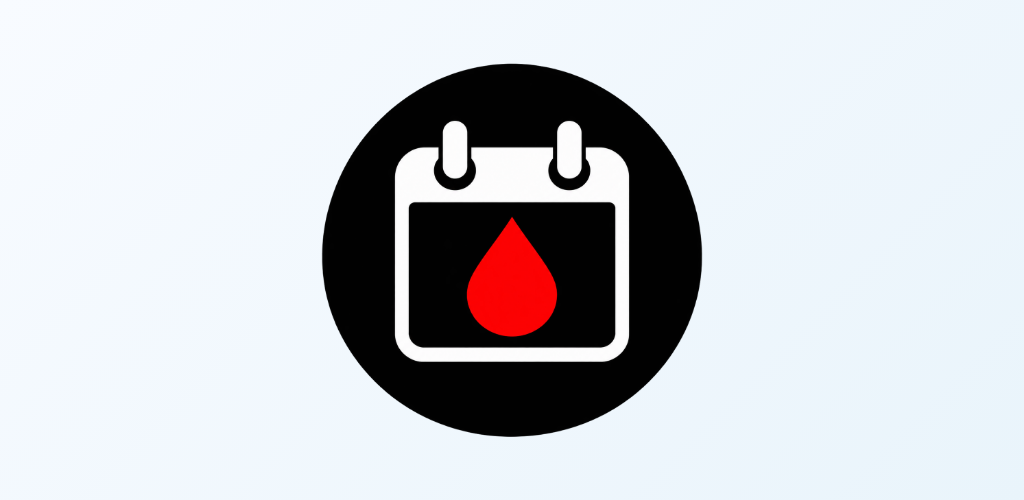
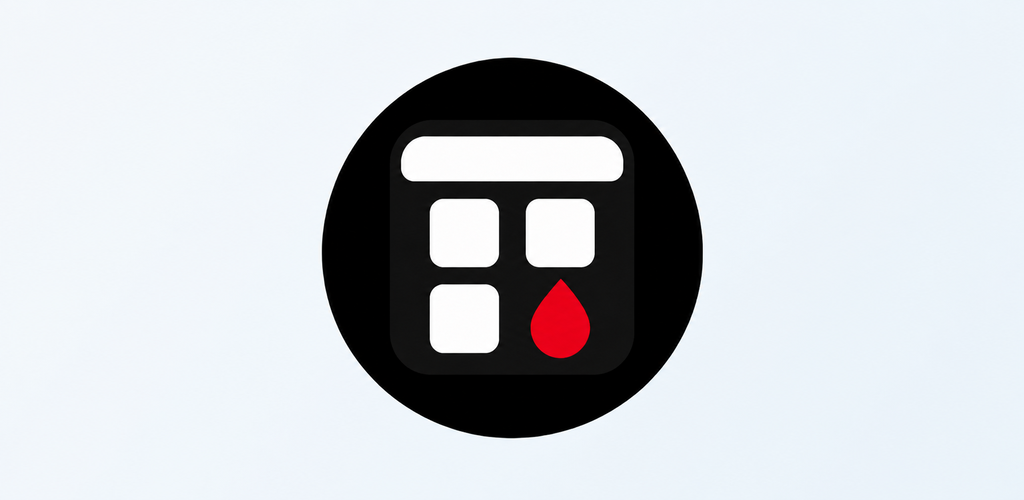
chore(release): align Play metadata

diff --git a/site/index.html b/site/index.html
@@ -23,14 +23,15 @@
 <body>
 <main>
   <h1>Selia Cycles privacy policy</h1>
-  <p class="meta">Effective August 30, 2026</p>
+  <p class="meta">Effective September 5, 2026</p>
   <p>Selia Cycles is published by MajkeyLab. Contact <a href="mailto:majkeylab@gmail.com">majkeylab@gmail.com</a> about this policy.</p>
 
   <h2>Local data</h2>
   <p>Selia Cycles stores cycle records, optional daily details, optional age and body profile values, saved forecast baselines, reminders, profile choices, and display settings in private storage on the Android device. The app has no account, ads, analytics, telemetry, Selia cloud, or network permission. MajkeyLab does not receive cycle data.</p>
 
-  <h2>Optional My Calendar import</h2>
-  <p>When you select a My Calendar .pc backup, Selia Cycles reads and previews it locally. Confirmed records are merged into private app storage and are not uploaded.</p>
+  <h2>Optional .pc import and export</h2>
+  <p>When you select a compatible .pc backup, Selia Cycles reads and previews it locally. Confirmed records are merged into private app storage and are not uploaded.</p>
+  <p>When you choose an export destination, Selia Cycles creates a local .pc backup containing cycle records and app settings. The export is not uploaded or encrypted. Anyone with access to the file may be able to read health data, so store and share it securely.</p>
 
   <h2>Optional calendar mirror</h2>
   <p>If you enable calendar mirroring, Selia Cycles requests Android calendar read/write permission and copies short labels for recorded periods, period estimates, fertile windows, and estimated ovulation into the calendar you select. Notes, symptoms, measurements, intimacy, and raw mood logs are never copied.</p>

diff --git a/CHANGELOG.md b/CHANGELOG.md
@@ -5,10 +5,21 @@
 ### Changed
 
 - The launcher and Play Store icon now use one clear calendar mark with a red tracked-day drop, transparent outer space, and safer adaptive-icon scaling.
+- Theme controls, calendar-day selection, switches, and long information dialogs now expose clearer accessible behavior.
+- The period editor follows the user's configured first day of week and unsaved editor or care-timer state survives screen recreation.
+- The public privacy page now explains local unencrypted `.pc` export.
 
 ### Fixed
 
 - An expected period no longer disappears or jumps forward by a full cycle immediately after its predicted start. The dashboard now shows how many days late it is while future fertility stays on the next cycle.
+- Current live estimates take priority over overlapping saved historical estimates without deleting the historical baseline.
+- Maximum-size exports stay within the reader's container-entry limit, and the store cannot grow beyond the supported backup size.
+- Imported backups cannot enable partner calendar visibility, replace newer local forecast history, or fail merely because a snapshot month already exists.
+- Invalid imported forecast dates are rejected before persistence.
+- Deleting local data succeeds even when Calendar access was revoked; calendar cleanup resumes when access returns.
+- Delayed reminders still arrive within their configured window, but only once per predicted period.
+- Calendar mirroring no longer rewrites recorded events only because their private description is intentionally preserved.
+- Today data refreshes after the local date changes while the app is backgrounded.
 
 ## 0.9.0-beta.10 - 2026-09-04
 

diff --git a/docs/RELEASE.md b/docs/RELEASE.md
@@ -28,4 +28,4 @@ Verify `app/build/outputs/bundle/release/app-release.aab` with `jarsigner -verif
 6. Add a tester email list or Google Group and a feedback email.
 7. Review warnings. Roll out only when every required form is complete.
 
-Package name and version code cannot be changed after the first uploaded bundle.
+The package name cannot change after the first uploaded bundle. Every later upload needs a new, higher `versionCode`; an uploaded code cannot be reused.

diff --git a/THIRD_PARTY_NOTICES.md b/THIRD_PARTY_NOTICES.md
@@ -3,6 +3,7 @@
 Selia Cycles uses these build and runtime components:
 
 - AndroidX Core, Activity, AppCompat, Lifecycle, WorkManager, and Compose. Apache License 2.0.
+- colorpicker-compose by Jaewoong Eum (skydoves). Apache License 2.0.
 - Kotlin. Apache License 2.0.
 - JUnit 4 for local tests. Eclipse Public License 1.0.
 

diff --git a/docs/play-store/DATA_SAFETY.md b/docs/play-store/DATA_SAFETY.md
@@ -1,6 +1,6 @@
 # Google Play declarations
 
-These answers describe version 0.9.0-beta.8.
+These answers describe version 0.9.0-beta.11.
 
 ## Data safety
 
